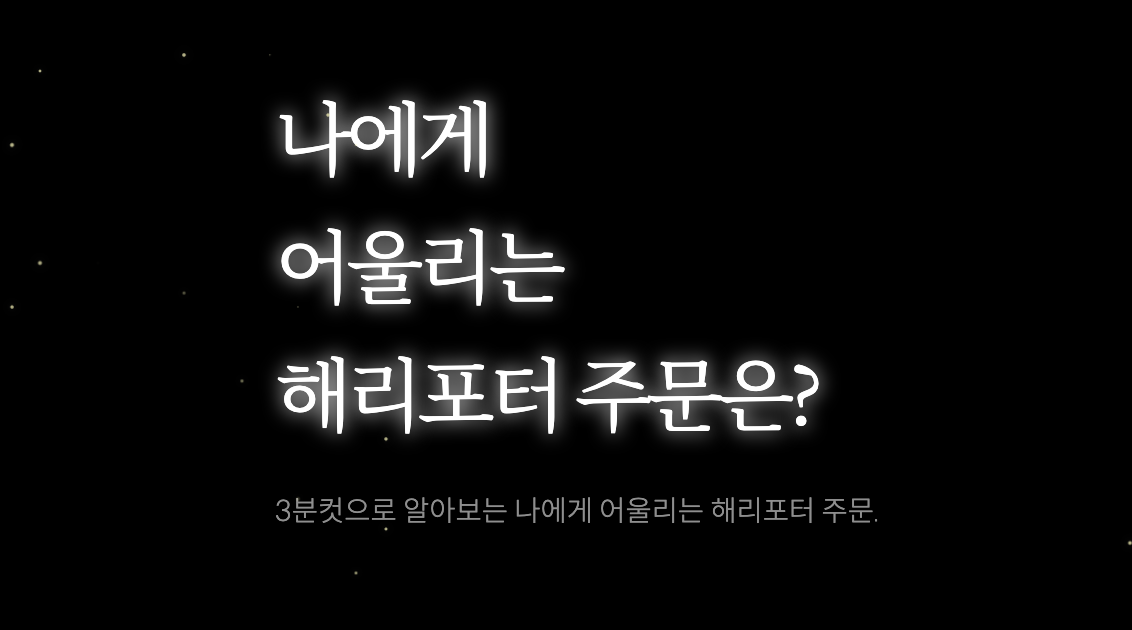
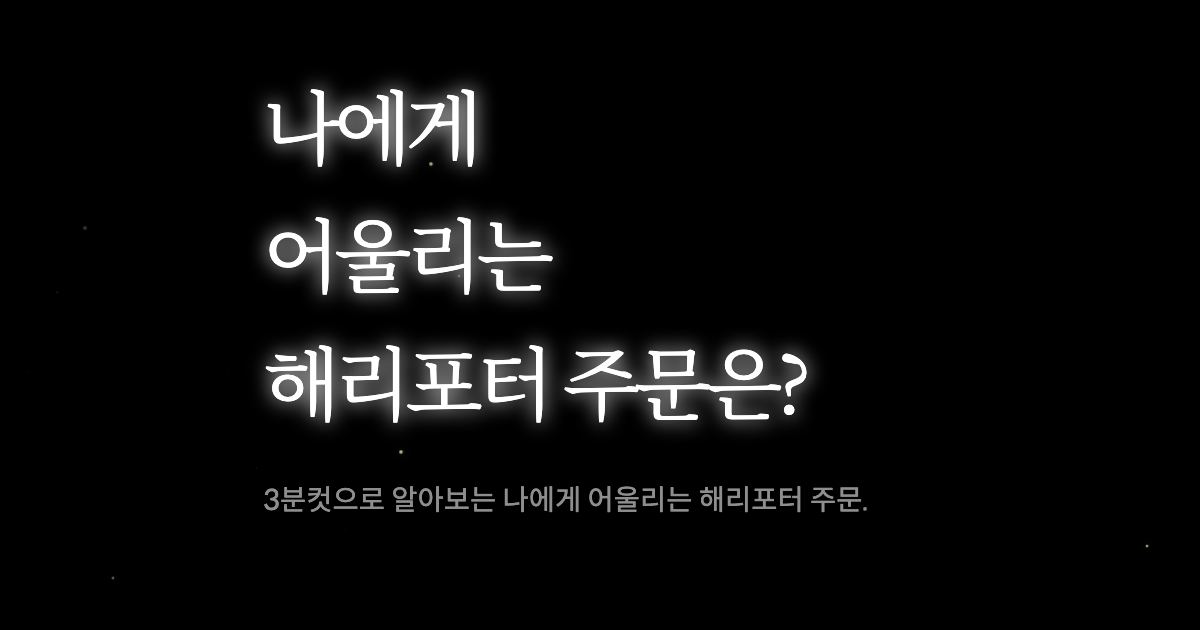
seo modified

diff --git a/src/components/seo.js b/src/components/seo.js
@@ -63,7 +63,7 @@ function Seo({ description, lang, meta, title }) {
         },
         {
           property: `og:image:width`,
-          content: `1138`,
+          content: `1200`,
         },
         {
           property: `og:image:height`,
